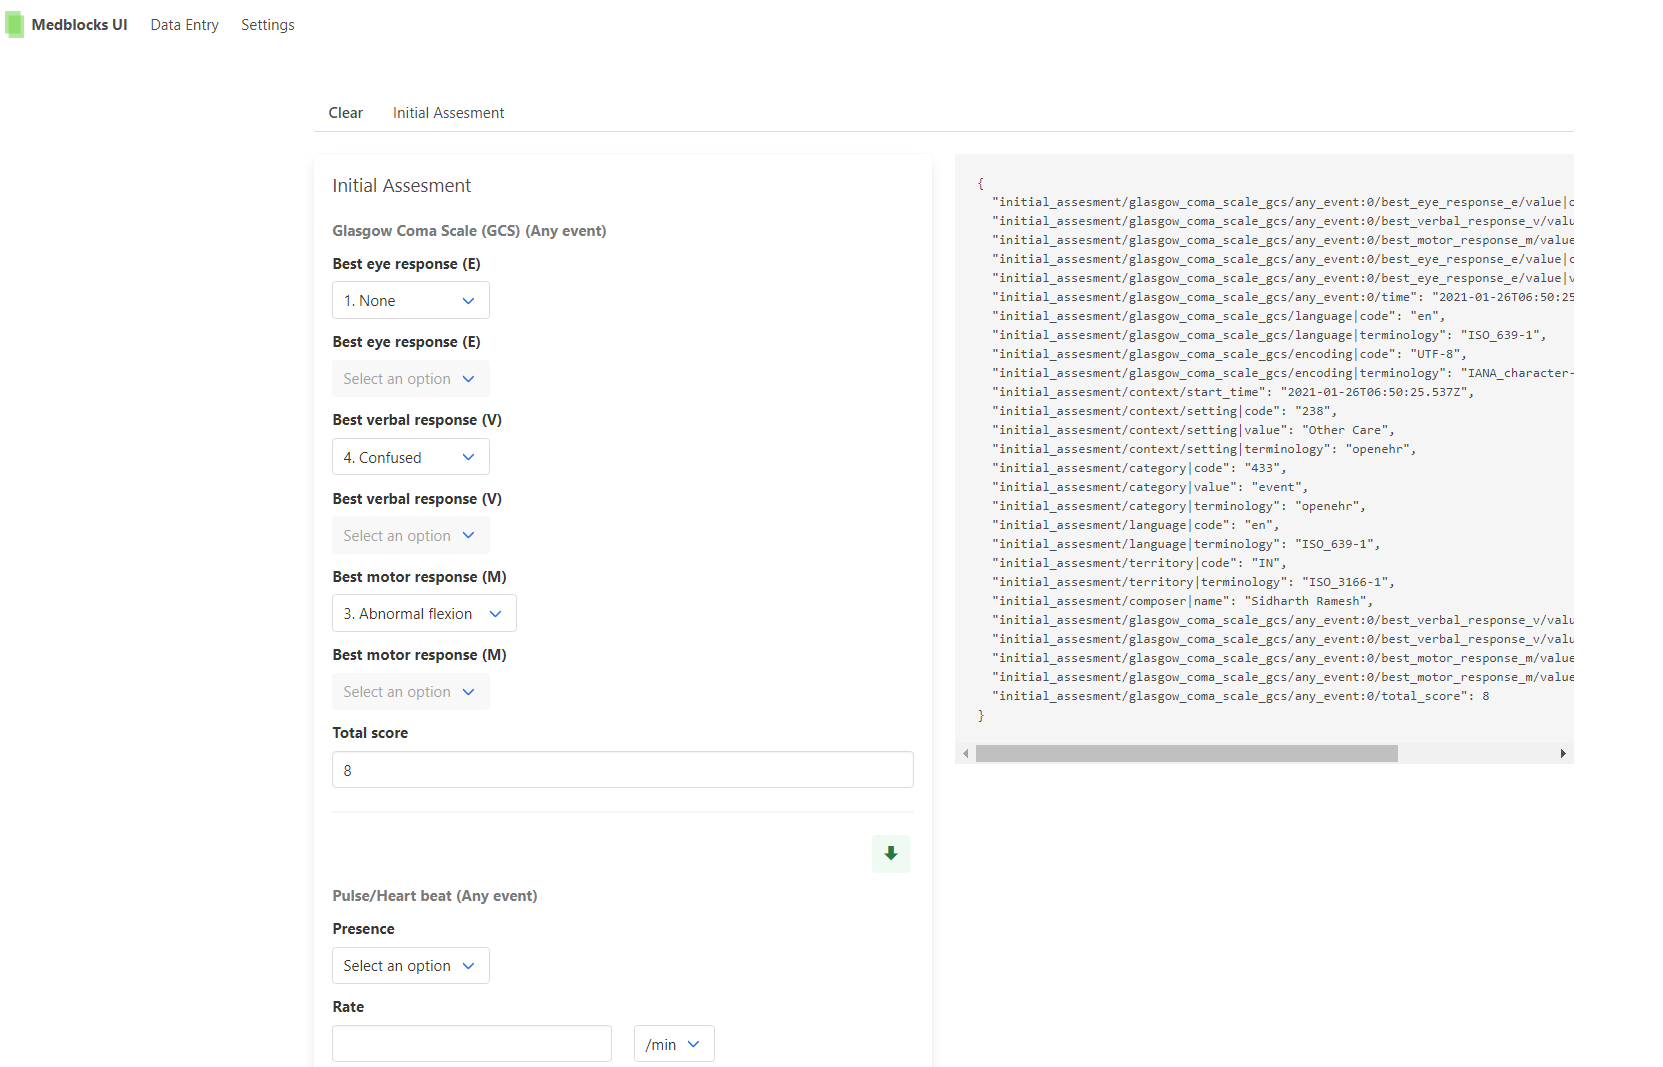
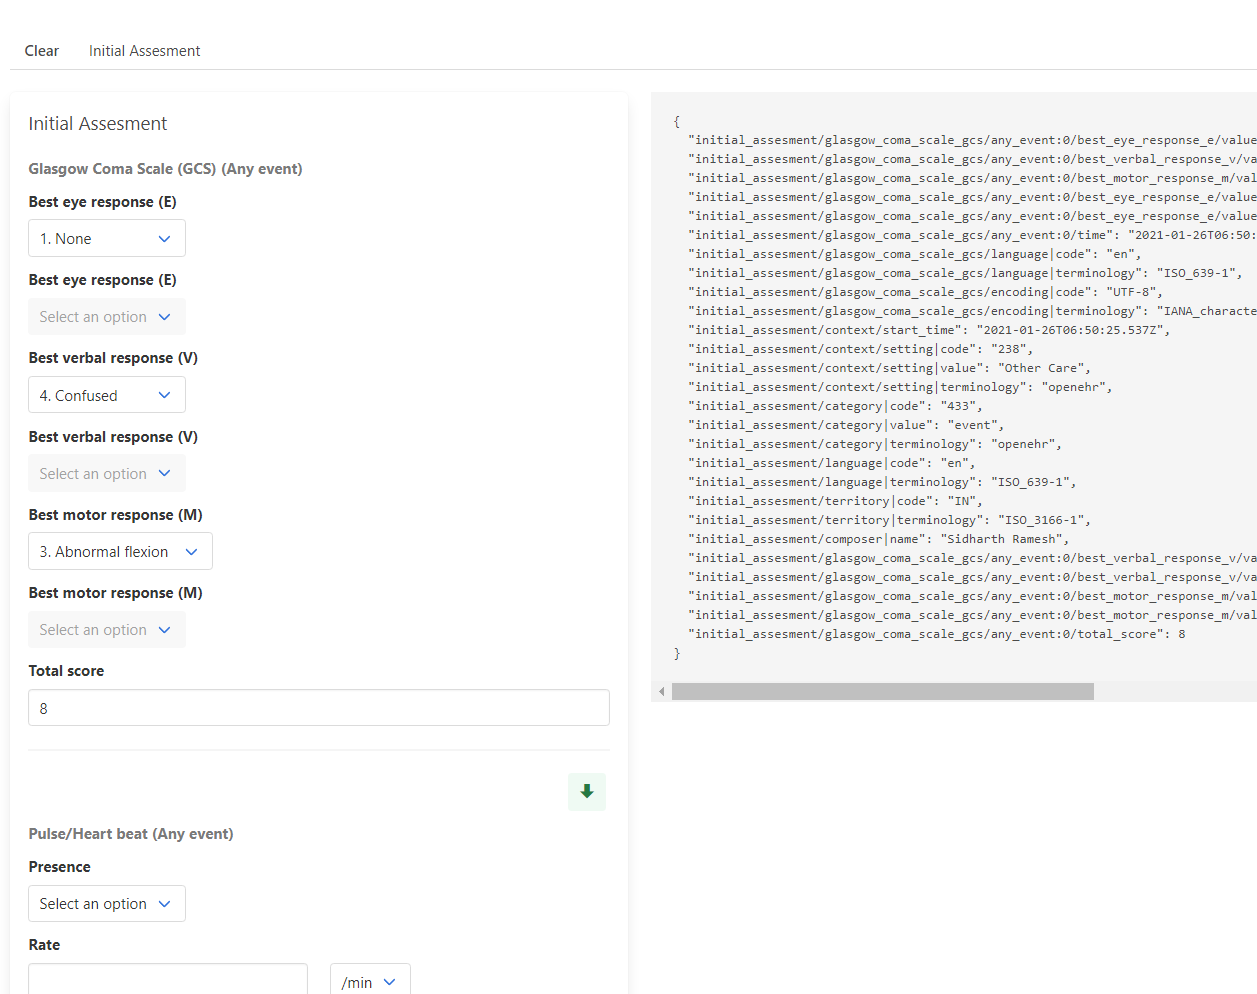
added spacing

diff --git a/_posts/2021-01-26-introducing-medblocks-ui.md b/_posts/2021-01-26-introducing-medblocks-ui.md
@@ -2,7 +2,7 @@
 layout: post
 title: Introducing Medblocks UI
 subtitle: An open-source UI library for openEHR based interfaces.
-thumbnail-img: /assets/blog/.png
+# thumbnail-img: /assets/blog/.png
 tags: ["medblocks", "openEHR"]
 ---
 # Introduction
@@ -10,35 +10,41 @@ It is a common need to automatically generate forms from openEHR templates. A we
 
 I have been working on this problem for a while, and today I'm happy to announce [Medblocks UI]() under the Apache 2 license.
 
-The app is also available at this site: https://sidharthramesh.github.io/medblocks-ui/
+The app is also available at [this site](https://sidharthramesh.github.io/medblocks-ui/). 
 
 # Tutorial
 ## Create a template
 The first step is to create a template. We'll be using the [Archetype Designer](https://tools.openehr.org/designer/). We'll be creating an Initial Assessment Template with the Glasgow Coma Scale and Pulse of the patient.
 
 For this template, we need the following archetypes:
-- Encounter - https://ckm.openehr.org/ckm/archetypes/1013.1.120/export
-- Glasgow Coma Scale(GCS) - https://ckm.openehr.org/ckm/archetypes/1013.1.137/export
-- Pulse/Heart beat - https://ckm.openehr.org/ckm/archetypes/1013.1.4295/export
+- [Encounter](https://ckm.openehr.org/ckm/archetypes/1013.1.120/export)
+- [Glasgow Coma Scale(GCS)](https://ckm.openehr.org/ckm/archetypes/1013.1.137/export)
+- [Pulse/Heart beat](https://ckm.openehr.org/ckm/archetypes/1013.1.4295/export)
 
 Click on Export ADL for the above archetypes and keep them ready. 
 
-Go to the Archetype Designer at https://tools.openehr.org/designer/ and sign in/sign up. Upload all the archetypes we just exported like so:
+Go to the [Archetype Designer](https://tools.openehr.org/designer/) and sign in or sign up. Upload all the archetypes we just exported like so:
+
 ![upload archetypes](/assets/blog/medblocks-ui/import.png){: .mx-auto.d-block :}
 
 First, we'll create a new template for our Initial assessment:
+
 ![create template](/assets/blog/medblocks-ui/create_template.png){: .mx-auto.d-block :}
 
 Next, we'll inherit from the encounter archetype we just uploaded:
+
 ![create template2](/assets/blog/medblocks-ui/create_template_2.png){: .mx-auto.d-block :}
 
 Next, click on "content" and add the Glasgow coma scale and Pulse archetypes to the composition. We'll be excluding most of the attributes, but a few like so for GCS:
+
 ![glasgow coma scale](/assets/blog/medblocks-ui/gcs_template.png){: .mx-auto.d-block :}
 
 And for the pulse archetype like so:
+
 ![glasgow coma scale](/assets/blog/medblocks-ui/pulse.png){: .mx-auto.d-block :}
 
 Rename the template to your liking. Now, you can click on Export and download the file as a web template. 
+
 ![export webtemplate](/assets/blog/medblocks-ui/export_webtemplate.png){: .mx-auto.d-block :}
 
 Be sure to also export as OPT for publishing the template to am openEHR Clinical Data Repository.
@@ -47,7 +53,8 @@ Be sure to also export as OPT for publishing the template to am openEHR Clinical
 ## Upload web template
 Once the web template is ready, open the Medblocks UI website at: https://sidharthramesh.github.io/medblocks-ui/#/settings. Click on the Add template button and upload the web template that you just got from the previous step.
 
-If all goes well, your template should show up like so:
+If all goes well, your template should show up like so
+
 ![upload webtemplate](/assets/blog/medblocks-ui/upload_webtemplate.png){: .mx-auto.d-block :}
 
 
@@ -77,7 +84,7 @@ There are a few DV_CODED_TEXT elements that render in this form with the Glasgow
 Click save to persist the customizations.
 
 ### 3. Conditional rendering
-Now, we want to make the pulse rate show up only if the pulse is present. This can be done using a plain javascript function. First select the Presence dropdown to Present. Next, click on view source on the top of the right column - this will show you the current state of the form. It will show something like so:
+Now, we want to make the pulse rate show up only if the pulse is present. This can be done using a plain javascript function. First, select the Presence dropdown to Present. Next, click on view source on the top of the right column - this will show you the current state of the form. It will show something like so:
 
 ```json
 {
@@ -144,10 +151,18 @@ Note that this computation only runs when all three values of E, V and, M are pr
 {: .box-warning}
 **Warning:** The paths may vary depending on the name and id of your template. Always look at the source in your template to get accurate paths.
 
+5. Exporting and Importing
+You can export this UI configuration by going to the settings and clicking on Export. The Web templates and configuration changes you made are exported into a JSON file.
+
+I have exported mine, and it is available [here](). 
+
+{: .box-warning}
+**Warning:** The exported files may include functions that execute in your browser. If it is from an untrusted source, please verify the following functions - `displayFunction`, `renderFunction`, `computeFunction` yourself before importing it to avoid XSS attacks.
+
+
 # Future direction
 - Add support for more data types.
 - Integrated SNOMED CT terminology searches.
 - Compile into web-components and publish to npm, with a guide for all major frameworks.
-- 
 
 Feel free to [raise an issue ](https://github.com/sidharthramesh/medblocks-ui/issues) for bugs and feature requests.
